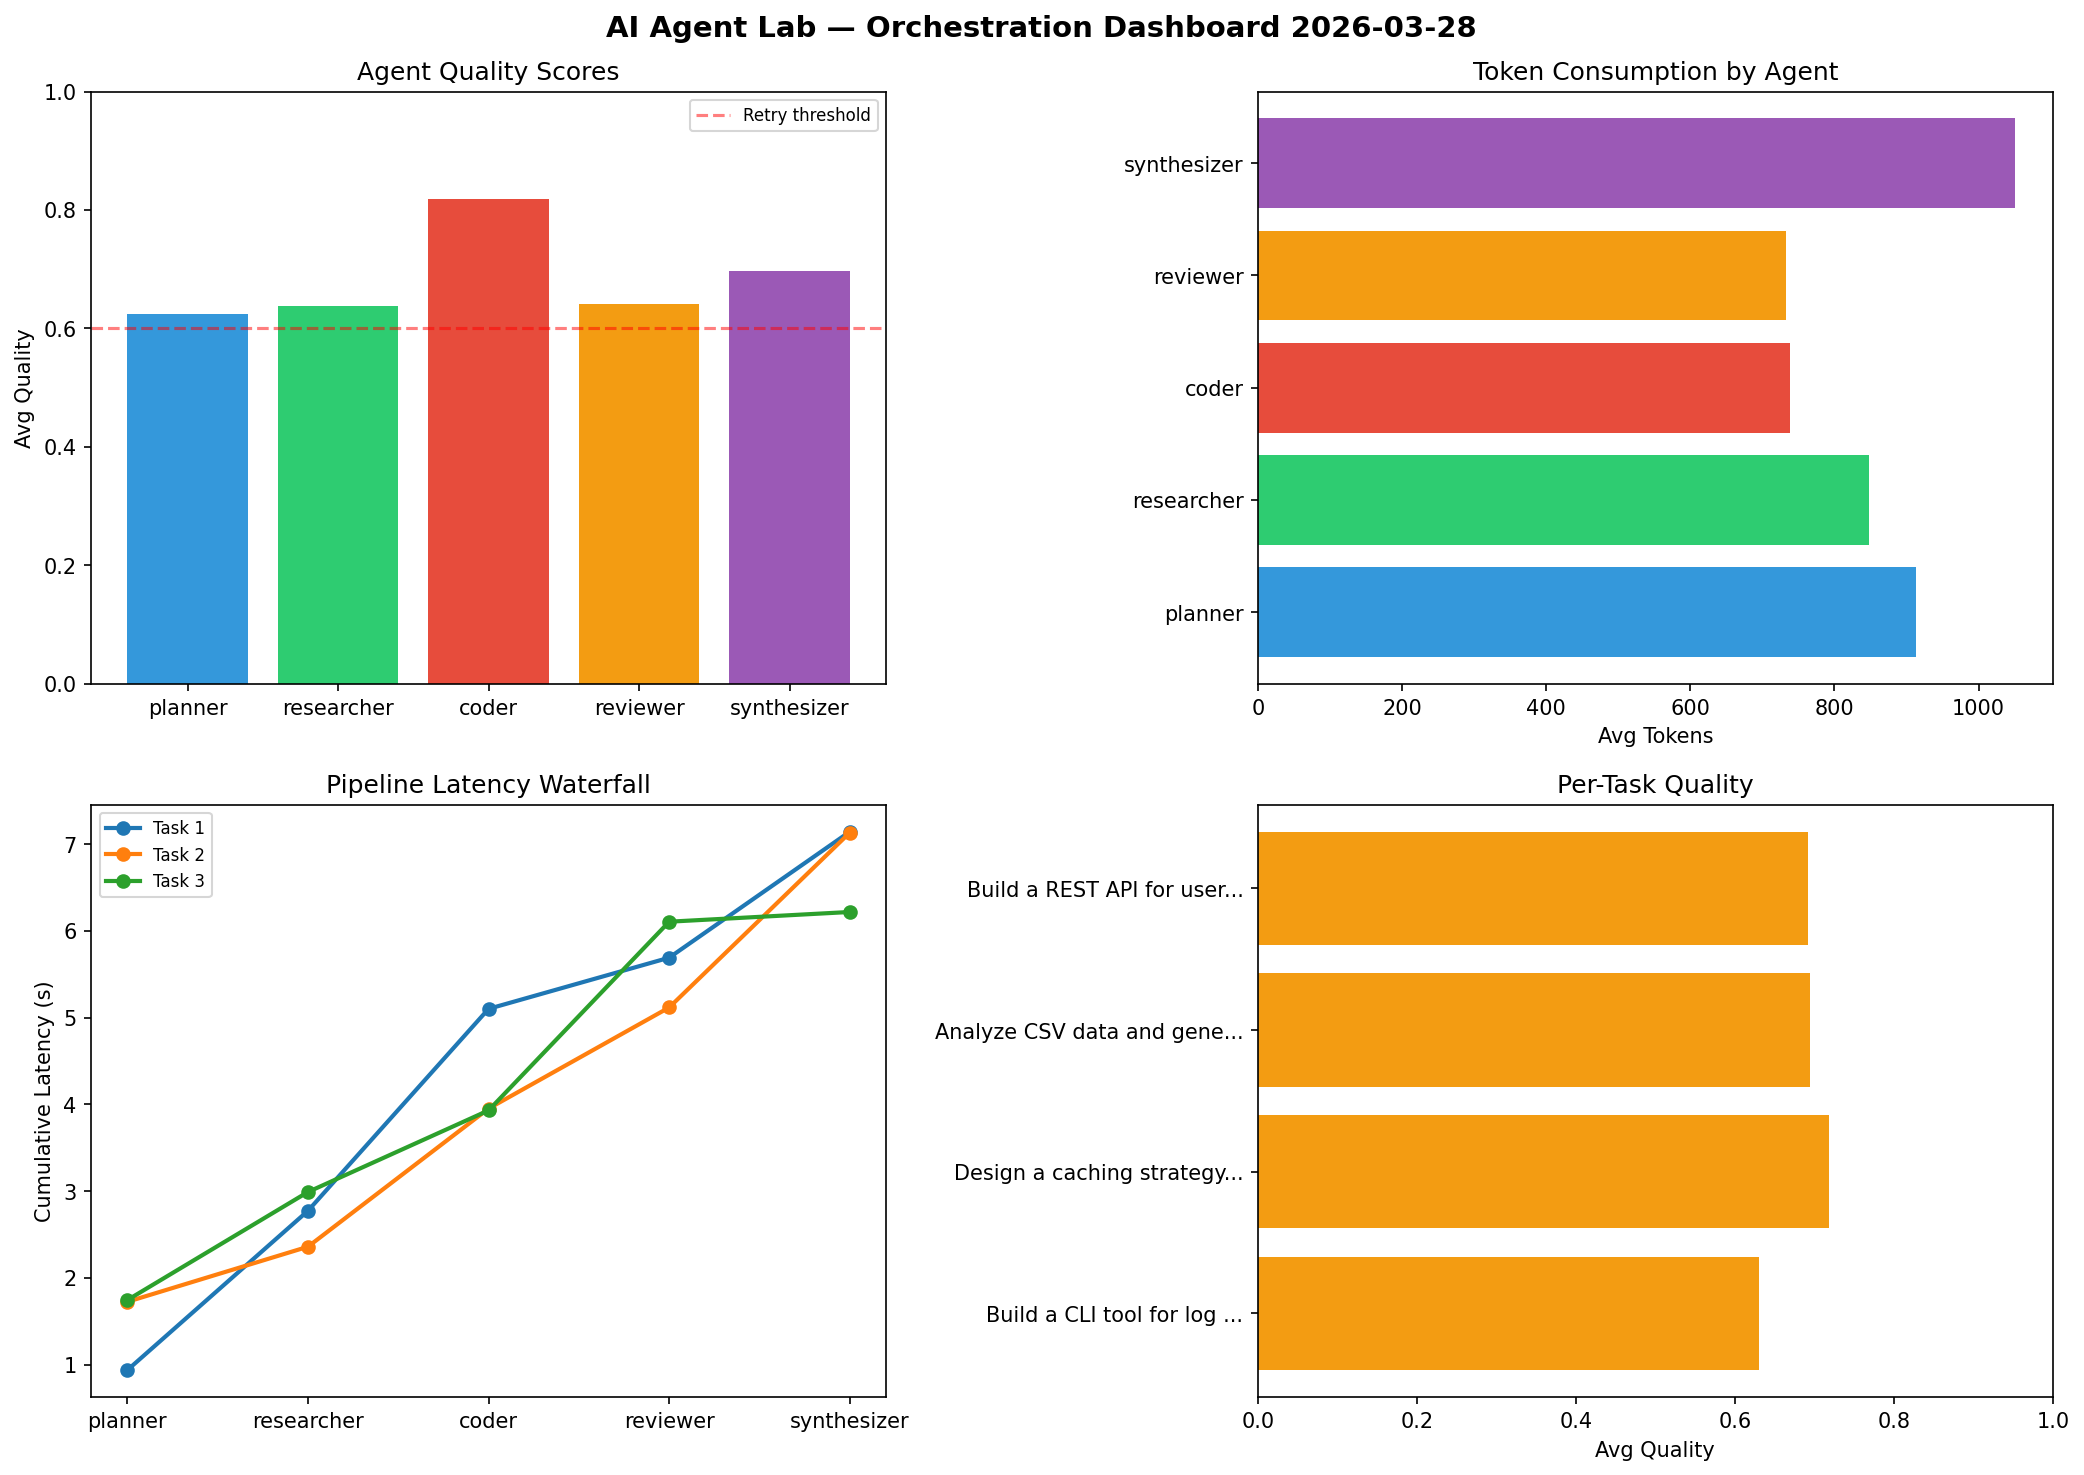
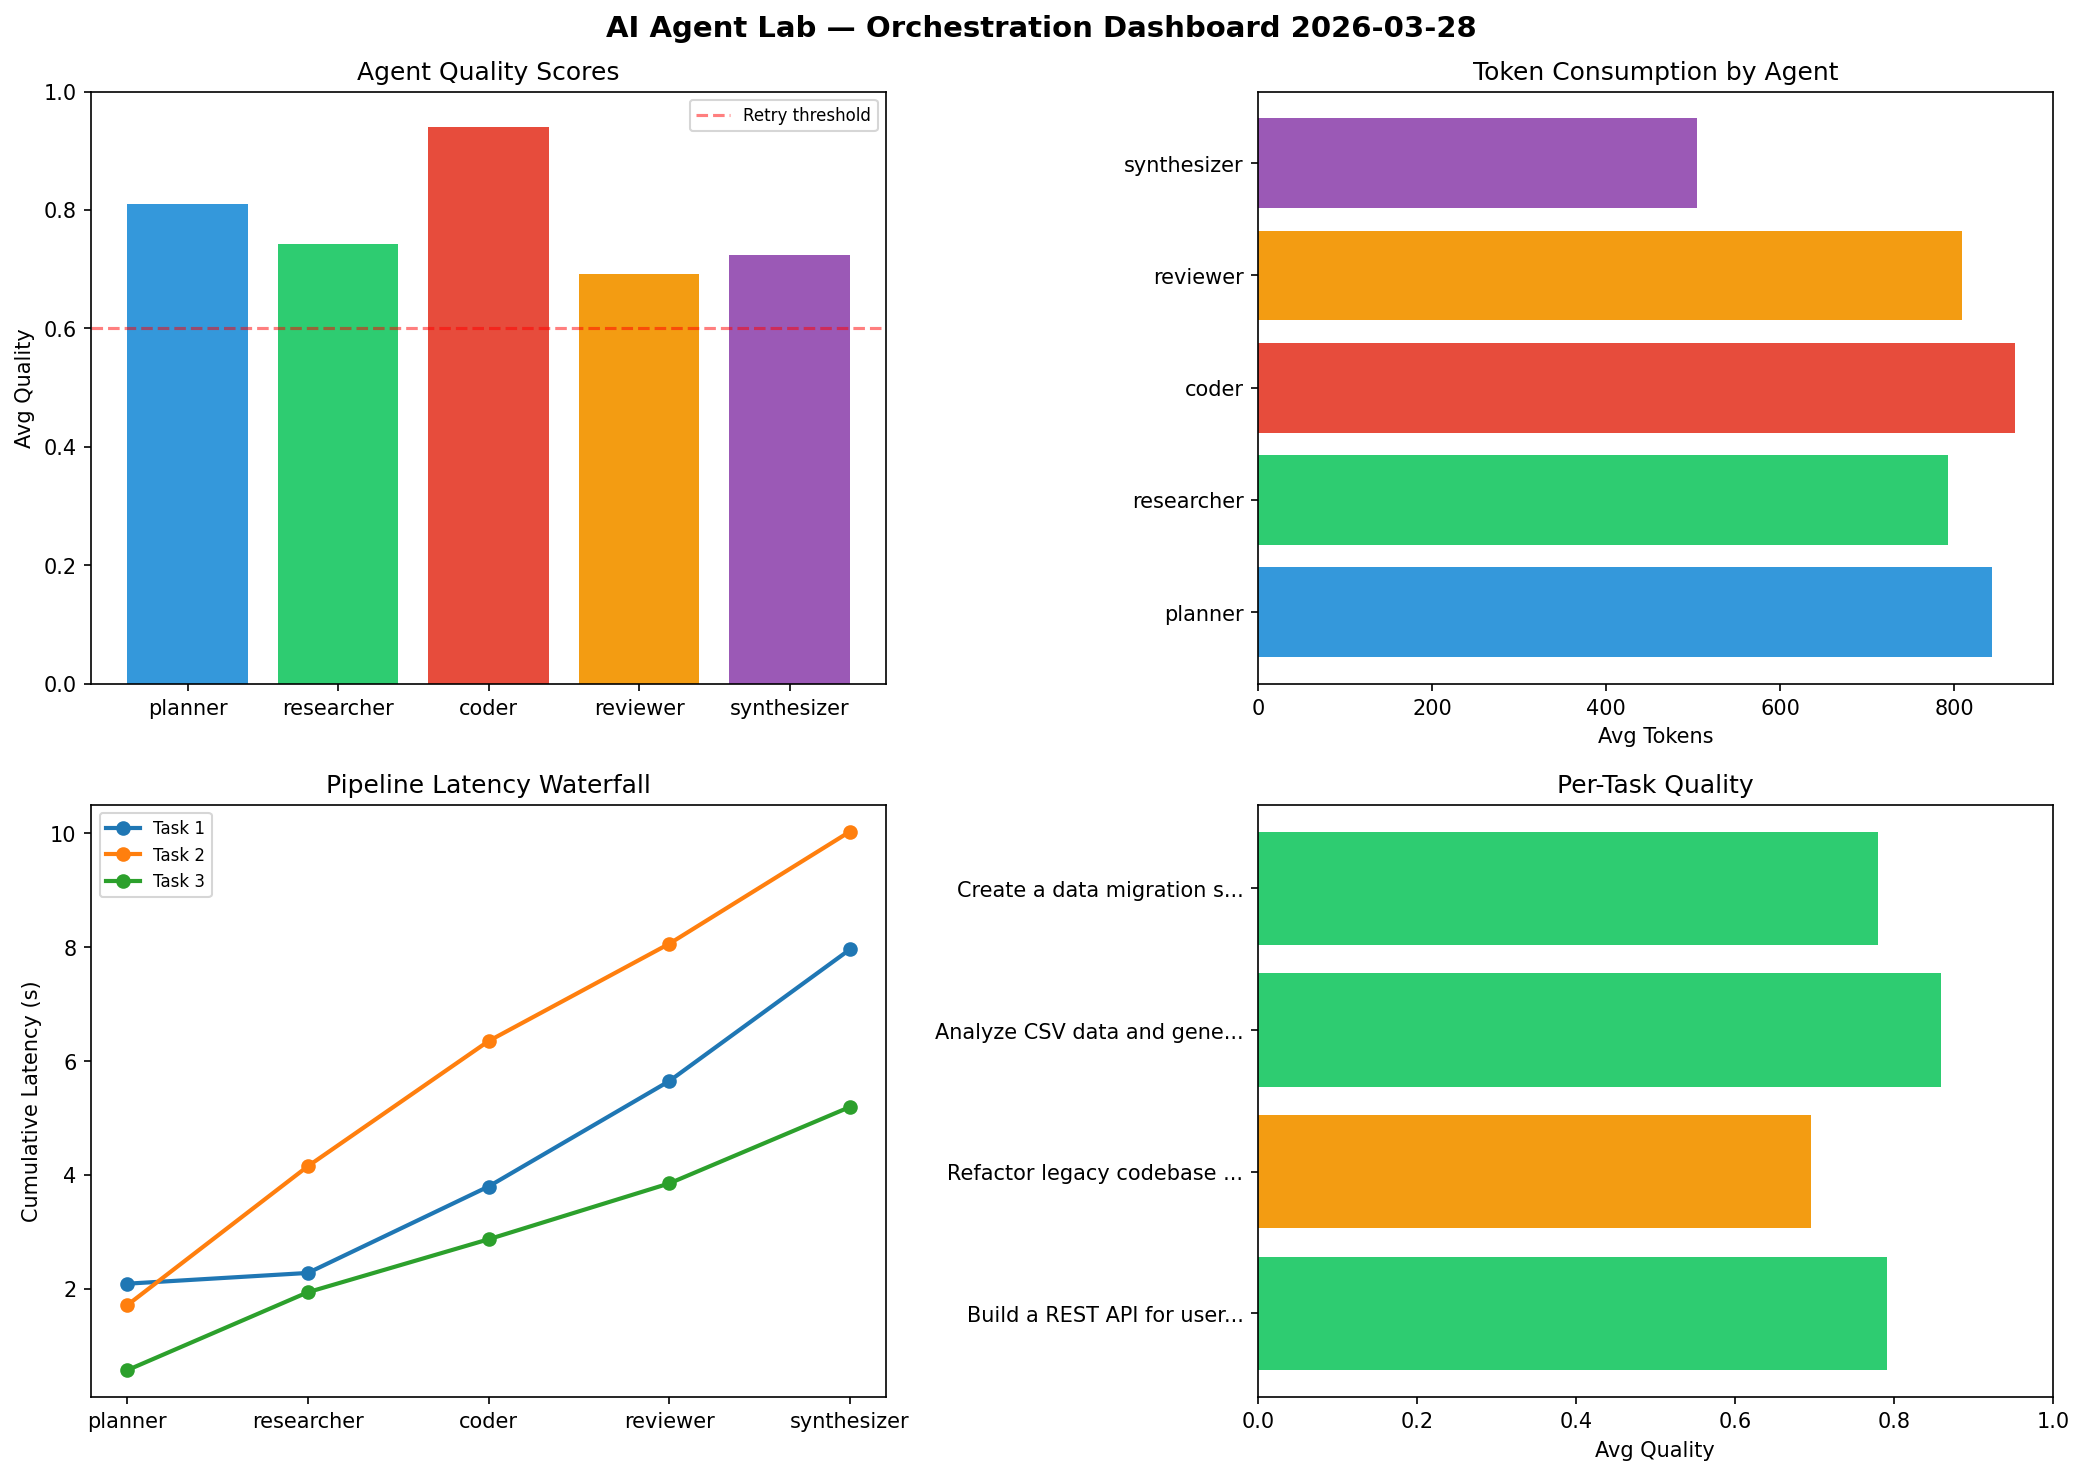
ai-agent-lab: orchestration run 2026-03-28T08:58

diff --git a/logs/2026-03-28.md b/logs/2026-03-28.md
@@ -1,6 +1,6 @@
 # AI Agent Lab — Orchestration Report 2026-03-28
 
-**Run ID:** `adc684f175` | **Tasks:** 4 | **Avg Quality:** 0.684
+**Run ID:** `af42bf335b` | **Tasks:** 4 | **Avg Quality:** 0.782
 
 ![Dashboard](2026-03-28_dashboard.png)
 
@@ -8,52 +8,52 @@
 
 | Metric | Value |
 |--------|-------|
-| avg_latency | 7.208 |
-| total_tokens | 17126 |
-| avg_quality | 0.684 |
+| avg_latency | 7.054 |
+| total_tokens | 15278 |
+| avg_quality | 0.782 |
 
 ## Delta vs Yesterday
 
 | Metric | Today | Yesterday | Change |
 |--------|-------|-----------|--------|
-| avg_latency | 7.208 | 7.2 | 📈 0.1% |
-| total_tokens | 17126 | 13279 | 📈 29.0% |
-| avg_quality | 0.684 | 0.703 | 📉 -2.7% |
+| avg_latency | 7.054 | 7.2 | 📉 -2.0% |
+| total_tokens | 15278 | 13279 | 📈 15.1% |
+| avg_quality | 0.782 | 0.703 | 📈 11.2% |
 
 ## Pipeline Results
-
-### Build a CLI tool for log analysis
-| Agent | Quality | Latency | Tokens | Status |
-|-------|---------|---------|--------|--------|
-| planner | 0.542 | 0.936s | 843 | needs_retry |
-| researcher | 0.511 | 1.837s | 867 | needs_retry |
-| coder | 0.729 | 2.329s | 918 | success |
-| reviewer | 0.676 | 0.59s | 551 | success |
-| synthesizer | 0.695 | 1.453s | 1138 | success |
-
-### Design a caching strategy for high-traffic endpoints
-| Agent | Quality | Latency | Tokens | Status |
-|-------|---------|---------|--------|--------|
-| planner | 0.563 | 1.724s | 911 | needs_retry |
-| researcher | 0.91 | 0.635s | 870 | success |
-| coder | 0.978 | 1.593s | 663 | success |
-| reviewer | 0.569 | 1.166s | 633 | needs_retry |
-| synthesizer | 0.57 | 2.016s | 780 | needs_retry |
-
-### Analyze CSV data and generate statistical summary
-| Agent | Quality | Latency | Tokens | Status |
-|-------|---------|---------|--------|--------|
-| planner | 0.563 | 1.744s | 906 | needs_retry |
-| researcher | 0.512 | 1.246s | 540 | needs_retry |
-| coder | 0.616 | 0.941s | 1004 | success |
-| reviewer | 0.794 | 2.176s | 747 | success |
-| synthesizer | 0.988 | 0.112s | 1065 | success |
 
 ### Build a REST API for user authentication
 | Agent | Quality | Latency | Tokens | Status |
 |-------|---------|---------|--------|--------|
-| planner | 0.83 | 1.432s | 991 | success |
-| researcher | 0.616 | 1.294s | 1114 | success |
-| coder | 0.954 | 1.323s | 366 | success |
-| reviewer | 0.529 | 1.836s | 1000 | needs_retry |
-| synthesizer | 0.532 | 2.447s | 1219 | needs_retry |
+| planner | 0.777 | 2.087s | 1119 | success |
+| researcher | 0.855 | 0.189s | 687 | success |
+| coder | 0.945 | 1.519s | 789 | success |
+| reviewer | 0.761 | 1.852s | 785 | success |
+| synthesizer | 0.617 | 2.314s | 415 | success |
+
+### Refactor legacy codebase to use dependency injection
+| Agent | Quality | Latency | Tokens | Status |
+|-------|---------|---------|--------|--------|
+| planner | 0.77 | 1.71s | 483 | success |
+| researcher | 0.503 | 2.442s | 766 | needs_retry |
+| coder | 0.932 | 2.199s | 883 | success |
+| reviewer | 0.502 | 1.71s | 859 | needs_retry |
+| synthesizer | 0.772 | 1.971s | 380 | success |
+
+### Analyze CSV data and generate statistical summary
+| Agent | Quality | Latency | Tokens | Status |
+|-------|---------|---------|--------|--------|
+| planner | 0.921 | 0.567s | 887 | success |
+| researcher | 0.819 | 1.37s | 889 | success |
+| coder | 0.951 | 0.93s | 1009 | success |
+| reviewer | 0.701 | 0.982s | 766 | success |
+| synthesizer | 0.907 | 1.343s | 441 | success |
+
+### Create a data migration script for schema v2
+| Agent | Quality | Latency | Tokens | Status |
+|-------|---------|---------|--------|--------|
+| planner | 0.771 | 1.293s | 886 | success |
+| researcher | 0.794 | 0.31s | 828 | success |
+| coder | 0.934 | 0.19s | 798 | success |
+| reviewer | 0.801 | 1.532s | 825 | success |
+| synthesizer | 0.598 | 1.704s | 783 | needs_retry |
